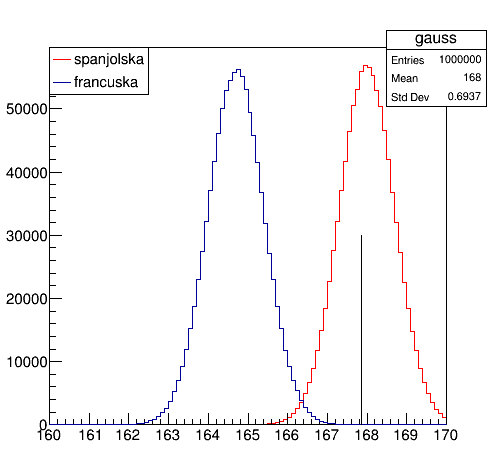
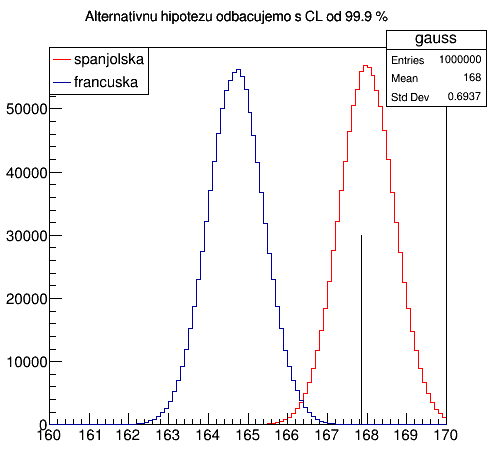
vj13_gotovo

Changed region(s): [[0.1815, 0.0, 0.7863, 0.0593]]

diff --git a/vjezbe_13/Analyzer.cpp b/vjezbe_13/Analyzer.cpp
@@ -82,11 +82,11 @@ void Analyzer::Theoretical_t_gauss()
 
 void Analyzer::ah_test(double sr, double gr)
 {
-	double p_value;
+	double p_value_null, p_value_alt, z_null, z_alt;
 	TCanvas *c = new TCanvas("c3","c3",500,500);
 	c->cd();
-	TH1F *alternative = new TH1F("gauss","",100,160,170);
-	TH1F *spain = new TH1F("gauss","",100,160,170);
+	TH1F *alternative = new TH1F("gauss","",100,160,180);
+	TH1F *spain = new TH1F("gauss","",100,160,180);
 	TRandom *r = new TRandom3();
 	double suma_s=0,suma_alt=0;
 
@@ -104,12 +104,20 @@ void Analyzer::ah_test(double sr, double gr)
 		suma_s=0;
 		suma_alt=0;}	
 
+	p_value_null=spain->Integral(spain->GetXaxis()->FindBin(t_obs),100)/spain->Integral(); //100 je broj binova
+	z_null = TMath::Sqrt(2)*TMath::ErfcInverse(2*p_value_null);
+	cout<<p_value_null<<"       "<<z_null<<endl;
+	p_value_alt=alternative->Integral(alternative->GetXaxis()->FindBin(t_obs),100)/alternative->Integral(); //100 je broj binova
+	z_alt = TMath::Sqrt(2)*TMath::ErfcInverse(2*p_value_alt);
+	cout<<p_value_alt<<"        "<<z_alt<<endl;
+
 	spain->SetLineColor(kRed);
+	spain->SetTitle("Alternativnu hipotezu odbacujemo s CL od 99.7 %");
 	spain->Draw();
 	alternative->Draw("same");
 
-	//p_value=t_statistic->Integral(t_statistic->GetXaxis()->FindBin(t_obs),100)/t_statistic->Integral(); //100 je broj binova
-	//cout<<p_value<<endl;
+	
+
 	TLine *line = new TLine(t_obs,0,t_obs,30000);
 	line->Draw();
 
@@ -117,8 +125,8 @@ void Analyzer::ah_test(double sr, double gr)
 	//legend->SetHeader("Header","C");
 
 	legend->AddEntry(spain,"spanjolska","l");
-	legend->AddEntry(alternative,"francuska","l");
+	legend->AddEntry(alternative,"nizozemska","l");
 	legend->Draw();
 
-	c->SaveAs("t_stat_france.png");
+	c->SaveAs("t_stat_netherlands.png");
 }

diff --git a/vjezbe_13/analyse.cpp b/vjezbe_13/analyse.cpp
@@ -6,8 +6,8 @@ int main(){
 
 	Analyzer *a = new Analyzer();
 	a->Loop();
-	a->Theoretical_t_gauss();
-	a->ah_test(164.7,7.1);
+	//a->Theoretical_t_gauss();
+	a->ah_test(170.3,7.5);
 
 return 0;
 }
